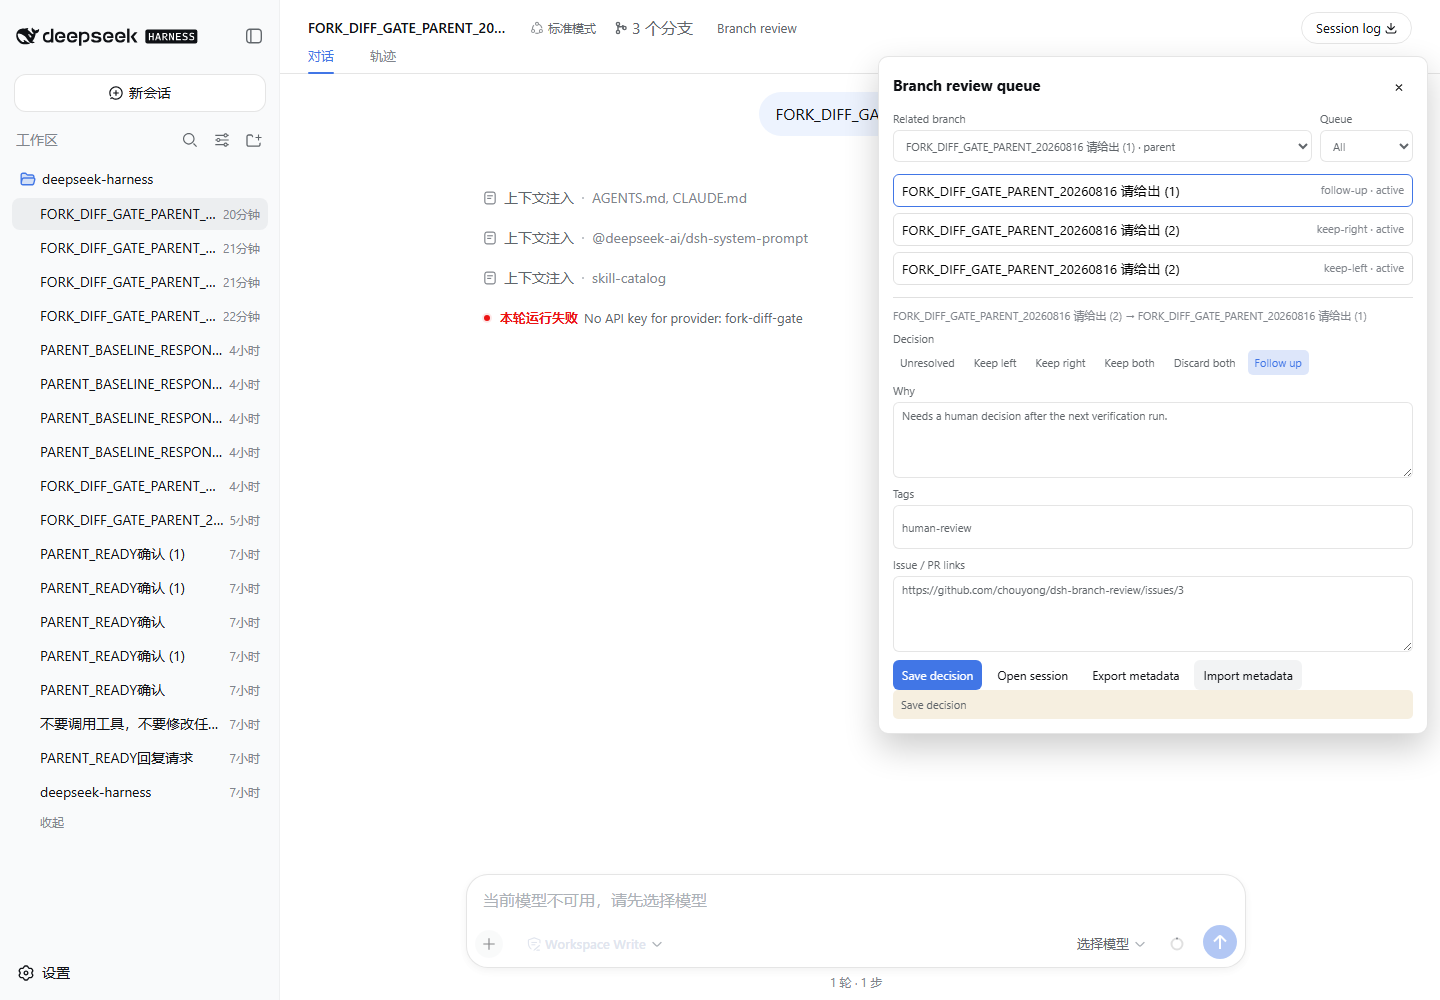
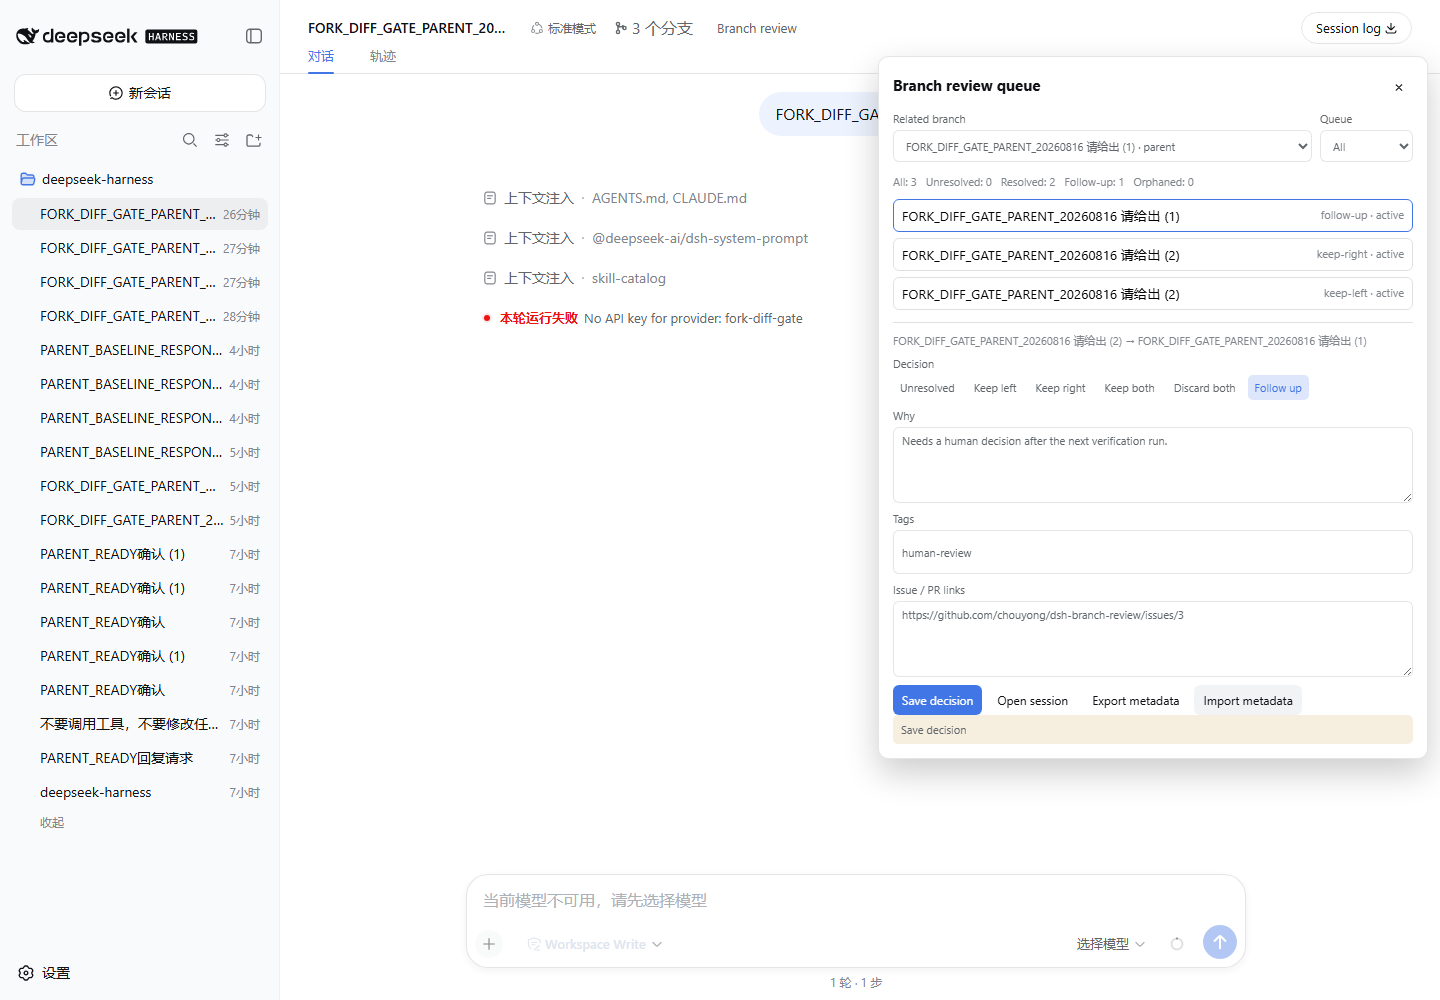
feat: show review queue summary

Changed region(s): [[0.625, 0.155, 0.9688, 0.465], [0.5938, 0.651, 1.0, 0.775], [0.625, 0.496, 0.8125, 0.62]]

diff --git a/src/client/DecisionQueue.tsx b/src/client/DecisionQueue.tsx
@@ -2,7 +2,7 @@ import { useEffect, useMemo, useRef, useState, useSyncExternalStore } from 'reac
 import type { SessionId, SessionListState } from './contract.ts'
 import { findRelatedSessions, isRelatedPair, recordHealth } from './lineage.ts'
 import { REVIEW_STATUSES, type ReviewStatus } from './records.ts'
-import { sortQueue, type QueueFilter } from './queue.ts'
+import { countQueue, sortQueue, type QueueFilter } from './queue.ts'
 import { ReviewStore } from './storage.ts'
 import { CSS_PREFIX } from './styles-prefix.ts'
 
@@ -13,7 +13,7 @@ export interface DecisionQueueProps {
   readonly useSessionList: SessionListSelector
   readonly open: (id: SessionId) => void
   readonly store: ReviewStore
-  readonly t: (key: 'trigger' | 'title' | 'candidate' | 'status' | 'reason' | 'tags' | 'links' | 'save' | 'open' | 'export' | 'import' | 'all' | 'unresolved' | 'resolved' | 'followUp' | 'orphaned' | 'noCandidate' | 'noRecord' | 'noQueue' | 'degraded' | 'invalidImport' | 'storageError' | 'unresolvedStatus' | 'keepLeft' | 'keepRight' | 'keepBoth' | 'discardBoth' | 'followUpStatus') => string
+  readonly t: (key: 'trigger' | 'title' | 'candidate' | 'status' | 'reason' | 'tags' | 'links' | 'save' | 'open' | 'export' | 'import' | 'all' | 'unresolved' | 'resolved' | 'followUp' | 'orphaned' | 'noCandidate' | 'noRecord' | 'noQueue' | 'degraded' | 'invalidImport' | 'storageError' | 'summary' | 'summaryAll' | 'summaryUnresolved' | 'summaryResolved' | 'summaryFollowUp' | 'summaryOrphaned' | 'unresolvedStatus' | 'keepLeft' | 'keepRight' | 'keepBoth' | 'discardBoth' | 'followUpStatus') => string
 }
 
 type StatusMessageKey = 'unresolvedStatus' | 'keepLeft' | 'keepRight' | 'keepBoth' | 'discardBoth' | 'followUpStatus'
@@ -64,6 +64,7 @@ export function DecisionQueue({ sessionId, useSessionList, open, store, t }: Dec
     ? undefined
     : snapshot.records.find(record => record.leftSessionId === sessionId && record.rightSessionId === selectedCandidate.id)
   const visibleRecords = sortQueue(snapshot.records, listState, filter)
+  const counts = countQueue(snapshot.records, listState)
   const hasTrigger = candidates.length > 0 || currentRecords.length > 0
 
   useEffect(() => {
@@ -173,6 +174,13 @@ export function DecisionQueue({ sessionId, useSessionList, open, store, t }: Dec
                 {FILTERS.map(value => <option key={value} value={value}>{value === 'follow-up' ? t('followUp') : t(value)}</option>)}
               </select>
             </label>
+          </div>
+          <div className={`${CSS_PREFIX}__summary`} aria-label={t('summary')}>
+            <span>{t('summaryAll')}: {counts.all}</span>
+            <span>{t('summaryUnresolved')}: {counts.unresolved}</span>
+            <span>{t('summaryResolved')}: {counts.resolved}</span>
+            <span>{t('summaryFollowUp')}: {counts.followUp}</span>
+            <span>{t('summaryOrphaned')}: {counts.orphaned}</span>
           </div>
           <div className={`${CSS_PREFIX}__queue`} aria-label="Review records">
             {visibleRecords.length === 0 ? <div className={`${CSS_PREFIX}__empty`}>{t('noQueue')}</div> : visibleRecords.map(record => {

diff --git a/tests/queue.spec.ts b/tests/queue.spec.ts
@@ -1,7 +1,7 @@
 import { describe, expect, it } from 'vitest'
 import { SessionId, type SessionListState } from '../src/client/contract.ts'
 import { createReviewRecord } from '../src/client/records.ts'
-import { matchesQueueFilter, sortQueue } from '../src/client/queue.ts'
+import { countQueue, matchesQueueFilter, sortQueue } from '../src/client/queue.ts'
 
 const list: SessionListState = {
   ids: [SessionId('left'), SessionId('right')],
@@ -20,5 +20,18 @@ describe('review queue', () => {
     expect(matchesQueueFilter(resolved, list, 'resolved')).toBe(true)
     expect(sortQueue([unresolved, resolved], list, 'all').map(record => record.recordId)).toEqual(['b', 'a'])
     expect(matchesQueueFilter(resolved, list, 'orphaned')).toBe(true)
+  })
+
+  it('counts decision and health buckets without changing record order', () => {
+    const unresolved = createReviewRecord({ leftSessionId: 'left', rightSessionId: 'right', now: 1, recordId: 'a' })
+    const resolved = { ...createReviewRecord({ leftSessionId: 'left', rightSessionId: 'other', now: 2, recordId: 'b' }), status: 'keep-left' as const }
+    const followUp = { ...createReviewRecord({ leftSessionId: 'left', rightSessionId: 'missing', now: 3, recordId: 'c' }), status: 'follow-up' as const }
+    expect(countQueue([unresolved, resolved, followUp], list)).toEqual({
+      all: 3,
+      unresolved: 1,
+      resolved: 1,
+      followUp: 1,
+      orphaned: 2,
+    })
   })
 })

diff --git a/src/client/queue.ts b/src/client/queue.ts
@@ -4,6 +4,14 @@ import { recordHealth } from './lineage.ts'
 
 export type QueueFilter = 'all' | 'unresolved' | 'resolved' | 'follow-up' | 'orphaned'
 
+export interface QueueCounts {
+  readonly all: number
+  readonly unresolved: number
+  readonly resolved: number
+  readonly followUp: number
+  readonly orphaned: number
+}
+
 export function matchesQueueFilter(
   record: ReviewRecord,
   state: Pick<SessionListState, 'byId'>,
@@ -26,6 +34,20 @@ export function sortQueue(
     .filter(record => matchesQueueFilter(record, state, filter))
     .slice()
     .sort((left, right) => right.updatedAt - left.updatedAt || left.recordId.localeCompare(right.recordId))
+}
+
+export function countQueue(
+  records: readonly ReviewRecord[],
+  state: Pick<SessionListState, 'byId'>,
+): QueueCounts {
+  const counts = { all: records.length, unresolved: 0, resolved: 0, followUp: 0, orphaned: 0 }
+  for (const record of records) {
+    if (matchesQueueFilter(record, state, 'unresolved')) counts.unresolved += 1
+    if (matchesQueueFilter(record, state, 'resolved')) counts.resolved += 1
+    if (matchesQueueFilter(record, state, 'follow-up')) counts.followUp += 1
+    if (matchesQueueFilter(record, state, 'orphaned')) counts.orphaned += 1
+  }
+  return counts
 }
 
 export function statusLabel(status: ReviewStatus): string {

diff --git a/src/client/styles.ts b/src/client/styles.ts
@@ -15,6 +15,7 @@ const STYLESHEET = `
 .${CSS_PREFIX}__close { width: 28px; height: 28px; border-radius: 6px; background: transparent; }
 .${CSS_PREFIX}__filters { display: grid; grid-template-columns: minmax(0, 1fr) auto; gap: 8px; margin: 12px 0; }
 .${CSS_PREFIX}__select, .${CSS_PREFIX}__input { min-height: 32px; min-width: 0; padding: 5px 8px; border: 1px solid var(--dsw-alias-border-l2, rgba(127,127,127,.3)); border-radius: 6px; background: var(--dsw-alias-bg-layer-1, #fff); color: inherit; font: inherit; }
+.${CSS_PREFIX}__summary { display: flex; flex-wrap: wrap; gap: 5px 9px; margin: 0 0 10px; color: var(--dsw-alias-label-tertiary, #8b919b); font-size: 11px; }
 .${CSS_PREFIX}__queue { display: grid; gap: 6px; margin-bottom: 12px; }
 .${CSS_PREFIX}__queue-item { display: grid; grid-template-columns: minmax(0, 1fr) auto; gap: 8px; padding: 7px 8px; border: 1px solid var(--dsw-alias-border-l3, rgba(127,127,127,.16)); border-radius: 6px; background: transparent; text-align: left; }
 .${CSS_PREFIX}__queue-item--selected { border-color: var(--dsw-alias-state-business-primary, #4d6bfe); }

diff --git a/src/client/index.ts b/src/client/index.ts
@@ -35,9 +35,11 @@ export function apply(ctx: Context): void {
 export type { DecisionQueueProps } from './DecisionQueue.tsx'
 export type { CandidateRelation, ReviewCandidate } from './lineage.ts'
 export type { QueueFilter } from './queue.ts'
+export type { QueueCounts } from './queue.ts'
 export type { ReviewPatch, ReviewRecord, ReviewStatus } from './records.ts'
 export { findRelatedSessions, isRelatedPair, recordHealth } from './lineage.ts'
 export { matchesQueueFilter, sortQueue } from './queue.ts'
+export { countQueue } from './queue.ts'
 export {
   createReviewRecord,
   mergeReviewRecords,

diff --git a/src/client/locales.ts b/src/client/locales.ts
@@ -15,6 +15,12 @@ const MESSAGES = {
   resolved: 'Resolved',
   followUp: 'Follow-up',
   orphaned: 'Orphaned',
+  summary: 'Queue summary',
+  summaryAll: 'All',
+  summaryUnresolved: 'Unresolved',
+  summaryResolved: 'Resolved',
+  summaryFollowUp: 'Follow-up',
+  summaryOrphaned: 'Orphaned',
   noCandidate: 'No related branch is available.',
   noRecord: 'Select a related branch to create a review record.',
   noQueue: 'No records match this filter.',

diff --git a/docs/release-evidence.md b/docs/release-evidence.md
@@ -17,7 +17,7 @@
 - Dirty worktree: 首个提交后需用 scoped Git 复核；`.codegraph/` 是忽略的本地生成索引
 - Remotes: `origin=https://github.com/chouyong/dsh-branch-review.git`
 - Plugin package/version: `dsh-branch-review@0.1.0`
[2 lines of base64/hex data omitted]
 - DSH source/executable: source `D:\knowledgeBase\deepseek-harness`, built CLI `D:\knowledgeBase\deepseek-harness\apps\cli\lib\bin.js`, version `0.1.0-rc.5`
 - Effective DSH home/profile: `D:\dsh-home` / `D:\dsh-home\profiles\web`; profile manifest contains `dsh-branch-review` as a link dependency and the existing read-only `dsh-fork-graph` fixture
 - Relay base URL/model discovery endpoint/web port: 待核验；不得记录秘密值
@@ -56,7 +56,7 @@
 
 - Dependency command and flags: `npm install --ignore-scripts --legacy-peer-deps`; added dev-only `playwright-core`, `pngjs`, `gif-encoder-2` for the browser gate
 - Typecheck: PASS (`npm run typecheck`)
-- Production build: PASS (`npm run build`); browser bundle 34,438 bytes
+- Production build: PASS (`npm run build`); browser bundle 36,373 bytes
 - Bundle contract: PASS (`npm run test:bundle`)
 - Full tests: PASS (`npm test`, 4 files / 9 tests)
 - Package contract: PASS (`npm run verify:package`)
@@ -64,12 +64,12 @@
 - Documented install attempt 1: failed, restricted shell `EPERM` while opening `D:\dsh-home\profiles\web\_tmp_*`; exact CLI category `pnpm failed in profile directory`
 - Documented install attempt 2: passed after controlled elevation; profile dependency is `dsh-branch-review link:D:/knowledgeBase/dsh-branch-review`, pnpm `11.7.0`, supply-chain lock verified
 - Tarball fallback: not used; official link install passed after environment permission correction
[2 lines of base64/hex data omitted]
 
 ## Stage 2: Runtime Load
 
 - Isolated D-drive profile/home: PASS for `D:\dsh-home\profiles\web`; link dependency and lockfile were re-read after install
[2 lines of base64/hex data omitted]
 - Style node and slot presence: PASS, `#dsh-branch-review-style` count 1 and visible `Branch review` slot trigger
 - Console errors: PASS, 0
 - Page errors: PASS, 0
@@ -86,8 +86,8 @@
 - Desktop and 390px mobile results: PASS, no horizontal overflow; mobile panel bounded to 390x844
 - Genuine screenshot paths and capture attempt: PASS, `assets/branch-review-desktop.png`, `assets/branch-review-decisions.png`, `assets/branch-review-mobile.png`
 - Short GIF path and capture attempt: PASS, `assets/branch-review-flow.gif`, 3 real Edge frames
-- Browser receipt: `docs/browser-gate-receipt.json`, Edge `151.0.4129.86`, DSH `0.1.0-rc.5`, generated `2026-08-16T12:43:50.840Z`
[1 lines of base64/hex data omitted]
+- Browser receipt: `docs/browser-gate-receipt.json`, Edge `151.0.4129.86`, DSH `0.1.0-rc.5`, generated `2026-08-16T12:49:38.833Z`
[1 lines of base64/hex data omitted]
 
 ## Stage 4: Publication
 

diff --git a/findings.md b/findings.md
@@ -75,5 +75,5 @@
 - 公开 UI 通过 `分叉会话` 建立一个 parent 与两个 sibling；插件在标题栏显示 `Branch review`，候选为 1 parent + 2 sibling；新会话基线不显示入口。
 - 三种状态 `keep-left`、`keep-right`、`follow-up` 均真实保存；重载、resolved 筛选、Open session、Export metadata 和 Import metadata 通过；console/page/request failures 均为 0。
 - 桌面截图首次暴露宿主 header overflow 裁切面板左侧文字；将面板改为 viewport-fixed 后重新构建并重跑门禁，最终三图与 3-frame GIF 可读且无横向溢出。
[2 lines of base64/hex data omitted]
 - 机器回执为 `docs/browser-gate-receipt.json`；当前 local profile 未配置模型 API key，门禁未发送消息、未读取秘密，截图中的宿主错误不属于浏览器错误。

diff --git a/progress.md b/progress.md
@@ -104,6 +104,11 @@
[1 lines of base64/hex data omitted]
 - Separate remove/restart contribution proof passed: after official CLI removal the restarted profile had no plugin asset, style, or trigger; official link install restored the plugin and final browser gate passed again. Remaining gate: create the next real functional commit, then Claude dry-run and independent review.
 
+### Queue Summary Enhancement: 2026-08-16
+- Added pure `countQueue()` aggregation and visible panel summary for all/unresolved/resolved/follow-up/orphaned buckets.
+- Added regression coverage for mixed status + orphaned counts; `npm run verify` passes with 10 tests.
[1 lines of base64/hex data omitted]
+
 ## 5-Question Reboot Check
 | Question | Answer |
 |----------|--------|

diff --git a/README.md b/README.md
@@ -12,6 +12,7 @@
 - 版本化 `ReviewRecord`：稳定记录 ID、左右 session ID、人工状态、短理由、标签、外部链接、创建/更新时间和 schemaVersion。
 - 记录失去会话后保留并显示 orphaned；不会静默删除历史决策。
 - 队列支持全部、未评审、已决策、待跟进和 orphaned 筛选，按最近更新时间排序。
+- 面板摘要显示全部、未评审、已决策、待跟进和 orphaned 数量，帮助人工复核快速判断队列范围。
 - 显式导出/导入 JSON；导出只包含评审元数据，不打包 session 正文、工具参数或隐藏运行态。
 - localStorage envelope 有 schema 迁移、未知版本拒绝、损坏恢复、重复合并、容量失败保留内存快照和跨标签更新。
 - 支持键盘 Escape、焦点恢复、桌面和 390px 移动布局；样式、slot、监听器和存储订阅均有 disposer。
